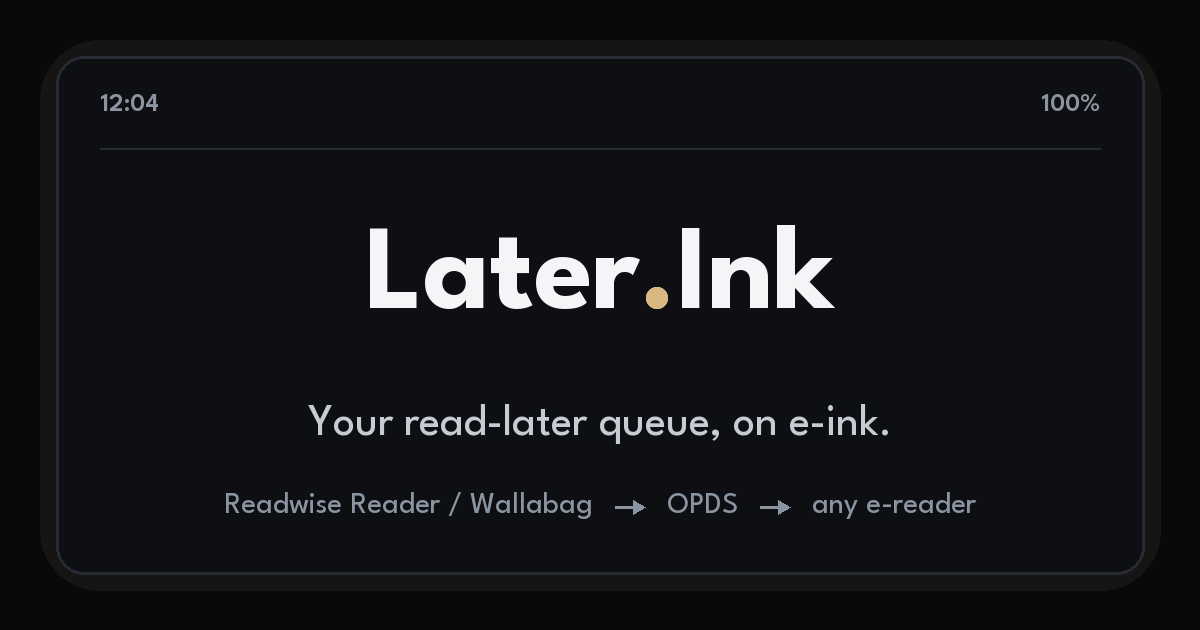
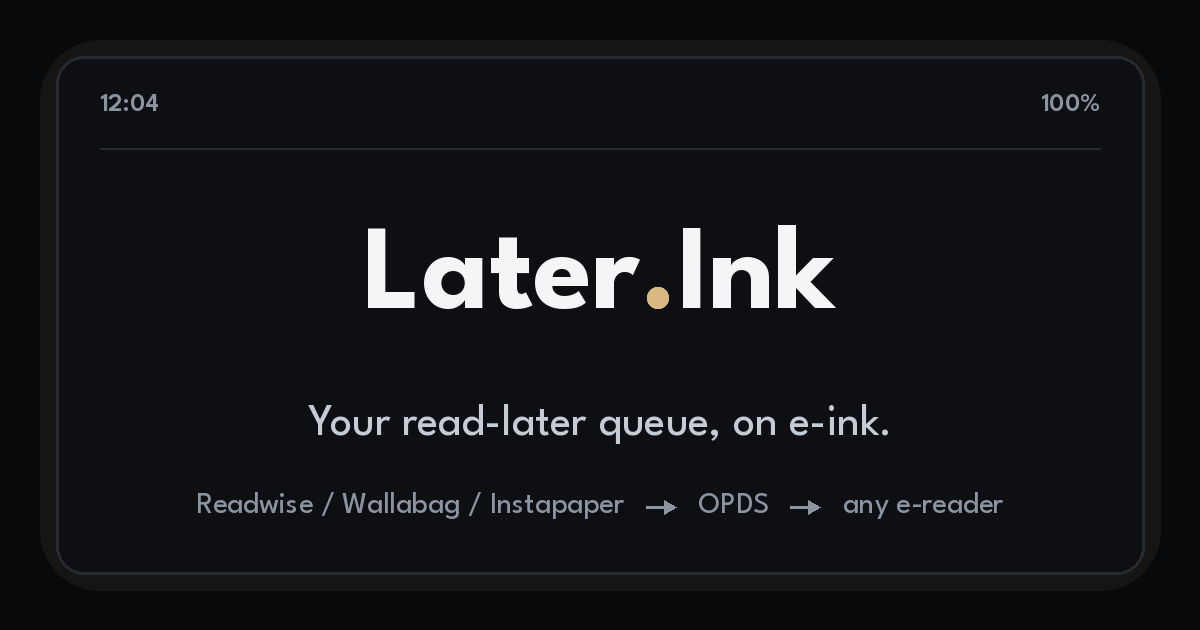
Landing page and social card: name Instapaper alongside Readwise and Wallabag (#52)
The 0.7.0 landing-page update fixed the FAQ answer but left the lede, the
self-host blurb, the og:description, and the og.png pipeline line saying
"Readwise Reader / Wallabag" only. Link unfurls (Reddit, Discord) still
advertised two connectors. Regenerated og.png with scripts/gen_og_image.py.

diff --git a/src/later_ink/pages.py b/src/later_ink/pages.py
@@ -418,8 +418,8 @@ def landing(payment_link: str | None, free_signup: bool, base_url: str) -> str:
     # absolute URLs or unfurlers silently skip them; the description is a
     # static string so a card never depends on runtime state.
     og_description = (
-        "Turn your Readwise Reader or Wallabag queue into an OPDS catalog "
-        "any e-reader can browse. Free, open source, self-hostable."
+        "Turn your Readwise Reader, Wallabag, or Instapaper queue into an OPDS "
+        "catalog any e-reader can browse. Free, open source, self-hostable."
     )
     og_tags = (
         '<meta property="og:title" content="Later.Ink: your read-later queue, on e-ink">'
@@ -439,8 +439,8 @@ def landing(payment_link: str | None, free_signup: bool, base_url: str) -> str:
         f"""
 <section class="hero">
   <h1>Your read-later queue,<br>on e-ink<span class="end">.</span></h1>
-  <p class="lede">Later.Ink turns your <strong>Readwise Reader</strong> or <strong>Wallabag</strong>
-    queue into a catalog your reading app already speaks (OPDS). Open it in KOReader
+  <p class="lede">Later.Ink turns your <strong>Readwise Reader</strong>, <strong>Wallabag</strong>,
+    or <strong>Instapaper</strong> queue into a catalog your reading app already speaks (OPDS). Open it in KOReader
     on a Kobo or Boox, or in a reader app like Fablum on your <strong>iPhone or iPad</strong>.
     Every item is fetched as a clean EPUB, images and all, that reads fully offline.</p>
   {note}
@@ -469,8 +469,8 @@ def landing(payment_link: str | None, free_signup: bool, base_url: str) -> str:
   (For a podcast, load its transcript in Readwise Reader first.)</p>
 
 <h2 class="eyebrow" id="self-host">Self-host it</h2>
-<p class="small">Free and open source (MIT). Bring your own Readwise or Wallabag
-  credentials; Later.Ink stores nothing. Run the prebuilt Docker image,
+<p class="small">Free and open source (MIT). Bring your own Readwise, Wallabag, or
+  Instapaper credentials; Later.Ink stores nothing. Run the prebuilt Docker image,
   <code>pip install later-ink</code>, or build from source; every path is one or
   two commands, then you add the catalog URL to your reader. The
   <a class="inline" href="{REPO_URL}#self-host-quickstart">README quickstart</a>

diff --git a/scripts/gen_og_image.py b/scripts/gen_og_image.py
@@ -75,7 +75,7 @@ def draw_arrow(x, cy):
 
 # Pipeline: text segments with drawn arrows between them.
 pipe_font = font(30, 450)
-segs = ["Readwise Reader / Wallabag", "OPDS", "any e-reader"]
+segs = ["Readwise / Wallabag / Instapaper", "OPDS", "any e-reader"]
 GAP = 22
 widths = [d.textlength(s, font=pipe_font) for s in segs]
 total = sum(widths) + (len(segs) - 1) * (GAP * 2 + 30)
